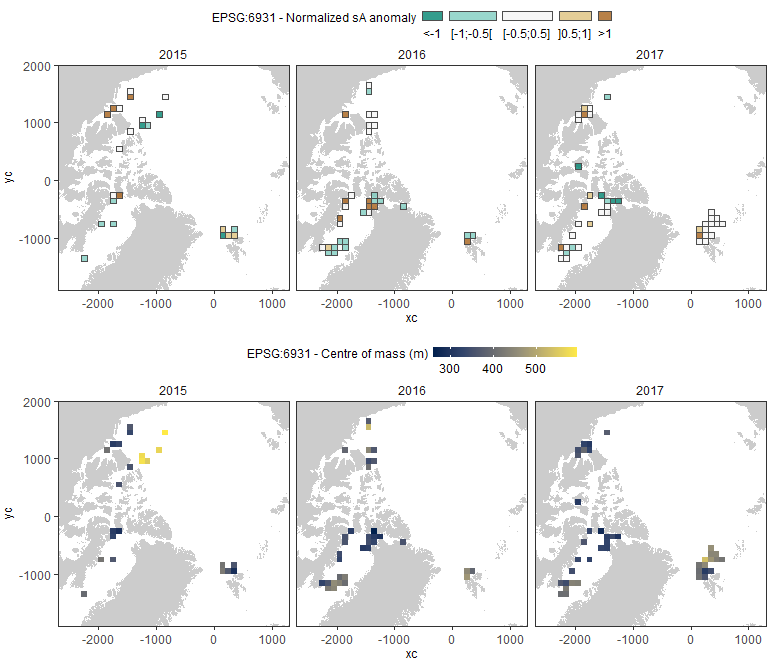
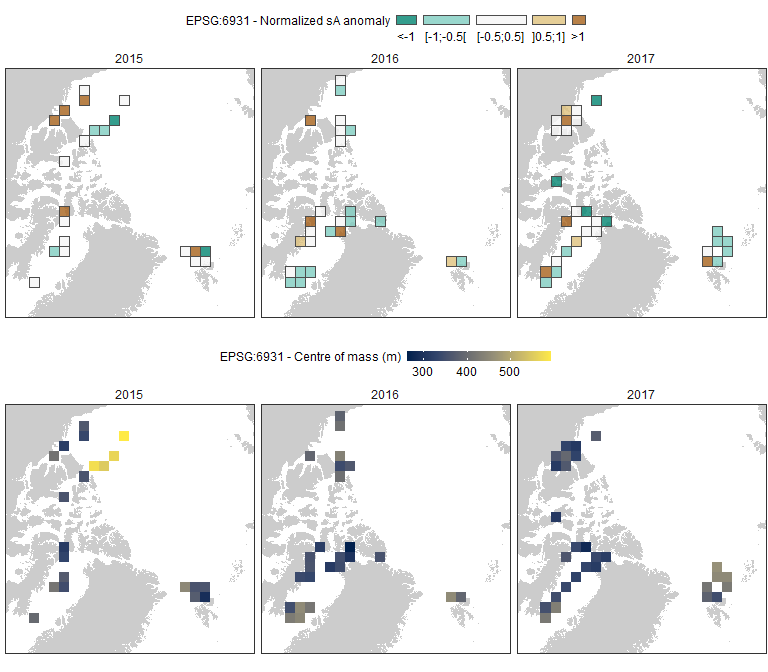
Updated calculation of normalized backscatter anomalies and increased cell resolution to 150 km.

diff --git a/PanArctic_DSL_acoustics.md b/PanArctic_DSL_acoustics.md
@@ -1,7 +1,7 @@
 PanArctic DSL - Acoustic gridding
 ================
 [Pierre Priou](mailto:pierre.priou@mi.mun.ca)
-2022/02/07 at 14:50
+2022/02/09 at 10:51
 
 # Package loading
 
@@ -35,9 +35,9 @@ when the ship were stationary (&lt; 1 knot). To match acoustic records
 to CTD and remote sensing data, and to homogenize data
 spatio-temporally, I rasterized acoustic data per year. I used two
 different grids; the WGS84 projection (EPSG:4326) with grid cells of
-2°lon x 1°lat, and the EASE-Grid 2.0 North (EPSG:6931) with grid cells
-of 100 km x 100 km—which is the default grid for sea-ice data. For each
-cell I calculated the mean integrated nautical area scattering
+2°lon x 1°lat, and the EASE-Grid 2.0 North (EPSG:6931)—which is the
+default grid for sea-ice data—with grid cells of 150 km x 150 km. For
+each cell I calculated the mean integrated nautical area scattering
 coefficient (s<sub>A</sub>; m<sup>2</sup> nmi<sup>-2</sup>) and centre
 of mass over mesopelagic depths (200-1000 m). Then, I calculated the
 normalized backscatter anomaly for each grid cell per area—Beaufort Sea
@@ -78,19 +78,24 @@ for (i in seq(2015, 2017, 1)) { # Data gridding
                                    lon >= -25 & lon <= 145 & lat > 77 & lat <= 90 ~ "SV"),
                          levels = c("BF_CAA", "BB", "SV"))) %>%
     filter(abs(lon - lon_mean) < 2 & abs(lat - lat_mean) < 1) %>% # Quality check
-    dplyr::select(year, area, lat, lon, NASC_int, CM) %>% 
-    group_by(year, area) %>%
-    mutate(NASC_anomaly = (NASC_int - mean(NASC_int)) / sd(NASC_int),  # Calculate normalized backscatter anomaly
-           NASC_anomaly_d = factor(case_when(NASC_anomaly < -1 ~ "<-1", # Discretize colour scale
-                                                     NASC_anomaly >= -1 & NASC_anomaly < -0.5 ~ "[-1;-0.5[",
-                                                     NASC_anomaly >= -0.5 & NASC_anomaly <= 0.5 ~ "[-0.5;0.5]",
-                                                     NASC_anomaly > 0.5 & NASC_anomaly <= 1 ~ "]0.5;1]",
-                                                     NASC_anomaly > 1 ~ ">1"),
-                                           levels = c("<-1", "[-1;-0.5[", "[-0.5;0.5]", "]0.5;1]", ">1"))) %>%
-    ungroup()
+    dplyr::select(year, area, lat, lon, NASC_int, CM)
  SA_grid_latlon <- bind_rows(SA_grid_latlon, SA_tmp_latlon)
 }
 rm(SA_tmp, SA_tmp_latlon, i) # Remove temporary data
+
+SA_grid_latlon <- SA_grid_latlon %>% # Calculate normalized backscatter anomalies
+  group_by(year, area) %>%
+  mutate(mean_NASC_area_year = mean(NASC_int),
+         sd_NASC_area_year = sd(NASC_int)) %>%
+  ungroup() %>%
+  mutate(NASC_anomaly = (NASC_int - mean_NASC_area_year) / sd_NASC_area_year,  # Calculate normalized backscatter anomaly
+         NASC_anomaly_d = factor(case_when(NASC_anomaly < -1 ~ "<-1", # Discretize colour scale
+                                           NASC_anomaly >= -1 & NASC_anomaly < -0.5 ~ "[-1;-0.5[",
+                                           NASC_anomaly >= -0.5 & NASC_anomaly <= 0.5 ~ "[-0.5;0.5]",
+                                           NASC_anomaly > 0.5 & NASC_anomaly <= 1 ~ "]0.5;1]",
+                                           NASC_anomaly > 1 ~ ">1"),
+                                           levels = c("<-1", "[-1;-0.5[", "[-0.5;0.5]", "]0.5;1]", ">1"))) %>%
+  ungroup()
 ```
 
 Plot mesopelagic normalized s<sub>A</sub> anomalies and centre of mass
@@ -118,7 +123,7 @@ plot_grid(SA_grid_latlon %>% # Map integrated normalized backscatter anomaly
             geom_tile(aes(x = lon, y = lat, fill = NASC_anomaly_d), color = "grey30", alpha = 0.8, size = 0.15) +
             scale_fill_manual("EPSG:4326 - Normalized sA anomaly", values = col_pal) +
             facet_wrap(~ year, ncol = 1) +
-            coord_cartesian(xlim = c(-155, 40), ylim = c(65, 85), expand = c(0, 0))  +
+            coord_cartesian(xlim = c(-155, 40), ylim = c(65, 85), expand = F)  +
             guides(fill = guide_legend(keywidth = 0.05,
                                        keyheight = 0.1,
                                        default.unit = "in", 
@@ -131,7 +136,7 @@ plot_grid(SA_grid_latlon %>% # Map integrated normalized backscatter anomaly
             geom_tile(aes(x = lon, y = lat, fill = CM)) +
             scale_fill_viridis_c("EPSG:4326 - Centre of mass (m)", option = "cividis") +
             facet_wrap(~ year, ncol = 1) +
-            coord_cartesian(xlim = c(-155, 40), ylim = c(65, 85), expand = c(0, 0))  +
+            coord_cartesian(xlim = c(-155, 40), ylim = c(65, 85), expand = F)  +
             theme(legend.position = "top", legend.key.height = unit(0.1, "in"), legend.key.width = unit(0.3, "in")),
           ncol = 2, align = "hv", axis = "tblr")
 ```
@@ -144,7 +149,7 @@ More info on this projection can be found on the [NSIDC
 website](https://nsidc.org/data/ease/).
 
 ``` r
-cell_res <- 100 # Cell resolution in km
+cell_res <- 150 # Cell resolution in km
 arctic_laea <- raster(extent(-2700, 2700, -2700, 2700), crs = "EPSG:6931") # Seaice projection
 projection(arctic_laea) <- gsub("units=m", "units=km", projection(arctic_laea)) # Convert proj unit from m to km
 res(arctic_laea) <- c(cell_res, cell_res) # Define the 100 km cell resolution
@@ -173,19 +178,24 @@ for (i in seq(2015, 2017, 1)) { # Data gridding
                                    lon > -95 & lon <= -50 & lat > 66 & lat <= 82 ~ "BB",
                                    lon >= -25 & lon <= 145 & lat > 77 & lat <= 90 ~ "SV"),
                          levels = c("BF_CAA", "BB", "SV"))) %>%
-    dplyr::select(year, area, lat, lon, xc, yc, NASC_int, CM) %>% 
-    group_by(year, area) %>%
-    mutate(NASC_anomaly = (NASC_int - mean(NASC_int)) / sd(NASC_int),  # Calculate normalized backscatter anomaly
-           NASC_anomaly_d = factor(case_when(NASC_anomaly < -1 ~ "<-1", # Discretize colour scale
-                                                     NASC_anomaly >= -1 & NASC_anomaly < -0.5 ~ "[-1;-0.5[",
-                                                     NASC_anomaly >= -0.5 & NASC_anomaly <= 0.5 ~ "[-0.5;0.5]",
-                                                     NASC_anomaly > 0.5 & NASC_anomaly <= 1 ~ "]0.5;1]",
-                                                     NASC_anomaly > 1 ~ ">1"),
-                                           levels = c("<-1", "[-1;-0.5[", "[-0.5;0.5]", "]0.5;1]", ">1"))) %>%
-    ungroup()
+    dplyr::select(year, area, lat, lon, xc, yc, NASC_int, CM) 
   SA_grid_laea <- bind_rows(SA_grid_laea, SA_tmp_laea)
 }
 rm(SA_tmp, SA_tmp_laea, i, cell_res) # Remove temporary data
+
+SA_grid_laea <- SA_grid_laea %>% # Calculate normalized backscatter anomalies
+  group_by(year, area) %>%
+  mutate(mean_NASC_area_year = mean(NASC_int),
+         sd_NASC_area_year = sd(NASC_int)) %>%
+  ungroup() %>%
+  mutate(NASC_anomaly = (NASC_int - mean_NASC_area_year) / sd_NASC_area_year,  # Calculate normalized backscatter anomaly
+         NASC_anomaly_d = factor(case_when(NASC_anomaly < -1 ~ "<-1", # Discretize colour scale
+                                           NASC_anomaly >= -1 & NASC_anomaly < -0.5 ~ "[-1;-0.5[",
+                                           NASC_anomaly >= -0.5 & NASC_anomaly <= 0.5 ~ "[-0.5;0.5]",
+                                           NASC_anomaly > 0.5 & NASC_anomaly <= 1 ~ "]0.5;1]",
+                                           NASC_anomaly > 1 ~ ">1"),
+                                           levels = c("<-1", "[-1;-0.5[", "[-0.5;0.5]", "]0.5;1]", ">1"))) %>%
+  ungroup()
 ```
 
 Plot mesopelagic normalized s<sub>A</sub> anomalies and centre of mass
@@ -207,21 +217,22 @@ plot_grid(SA_grid_laea %>% # Map integrated normalized backscatter anomaly
             geom_tile(aes(x = xc, y = yc, fill = NASC_anomaly_d), color = "grey30", alpha = 0.8, size = 0.15) +
             scale_fill_manual("EPSG:6931 - Normalized sA anomaly", values = col_pal) +
             facet_wrap(~ year, ncol = 3) +
-            coord_fixed(xlim = c(-2700, 1300), ylim = c(-1900, 2000), expand = c(0, 0)) +
+            coord_fixed(xlim = c(-2600, 1100), ylim = c(-1800, 1900), expand = F) + 
             guides(fill = guide_legend(keywidth = 0.05,
                                        keyheight = 0.1,
                                        default.unit = "in",
                                        label.position = "bottom"),
                    color = "none") +
-            theme(legend.position = "top"),
-          SA_grid_laea %>% # Map absolute salinity
+            theme(legend.position = "top", axis.text = element_blank(), axis.ticks = element_blank(), axis.title = element_blank()),
+          SA_grid_laea %>% # Map centre of mass
             ggplot() +
             geom_polygon(data = coast_10m_laea, aes(x = xc, y = yc, group = group), fill = "grey80") +
             geom_tile(aes(x = xc, y = yc, fill = CM)) +
             scale_fill_viridis_c("EPSG:6931 - Centre of mass (m)", option = "cividis") +
             facet_wrap(~ year, ncol = 3) +
-            coord_fixed(xlim = c(-2700, 1300), ylim = c(-1900, 2000), expand = c(0, 0)) +
-            theme(legend.position = "top", legend.key.height = unit(0.1, "in"), legend.key.width = unit(0.3, "in")),
+            coord_fixed(xlim = c(-2600, 1100), ylim = c(-1800, 1900), expand = F) + 
+            theme(legend.position = "top", legend.key.height = unit(0.1, "in"), legend.key.width = unit(0.3, "in"),
+                  axis.text = element_blank(), axis.ticks = element_blank(), axis.title = element_blank()),
           ncol = 1, align = "hv", axis = "tblr")
 ```
 
